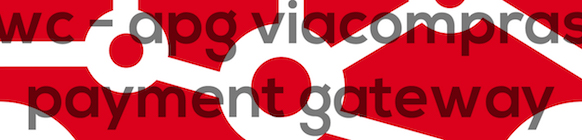
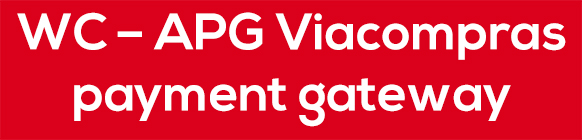
Versión 0.1.2.4

diff --git a/assets/css/style.css b/assets/css/style.css
@@ -7,12 +7,12 @@ table.apg-table, .cabecera {
 	max-width: 586px;
 }
 .imagen {
-	border-left: 4px solid #7AD03A;
+	border-left: 4px solid #07628c;
 	box-shadow: 0 1px 1px 0 rgba(0, 0, 0, 0.1);
 	max-width: 100%;
 	display: block;
 }
-.imagen:hover {
+.imagen:hover, .estrellas .star-rating .star:hover, div.informacion a:hover {
 	-ms-filter: "progid:DXImageTransform.Microsoft.Alpha(Opacity=80)";
 	filter: alpha(opacity=80);
 	-moz-opacity: 0.8;
@@ -22,26 +22,27 @@ table.apg-table, .cabecera {
 .estrellas div {
 	display: inline!important;
 }
-.estrellas div:hover {
-	color: #2ea2cc;
-}
 .estrellas .star-rating .star {
 	font-size: 18px;
 }
-div.informacion .genericon, div.informacion .estrellas .star-rating .star, div.informacion .artprojectgroup {
+div.informacion .estrellas .star-rating .star {
+	color: #fff;
+}
+.genericon, div.informacion .estrellas .star-rating .star, div.informacion .artprojectgroup {
 	width: 15px;
 	height: 15px;
 	font-size: 15px;
 }
 div.informacion {
-	background-color: #FFFFFF;
+	background-color: rgba(7,98,140,0.8);
 	float: right;
 	padding: 10px;
 	width: 15%;
 	max-width: 220px;
 	text-align: center;
-	border-left: 4px solid #7AD03A;
+	border-left: 4px solid #d9001d;
 	box-shadow: 0 1px 1px 0 rgba(0, 0, 0, 0.1);
+	color: #fff;
 }
 div.informacion div.fila {
 	padding: 10px 10px 0px;
@@ -49,7 +50,7 @@ div.informacion div.fila {
 	max-width: 190px;
 }
 div.informacion div.fila, div.informacion div.columna:nth-child(2n) {
-	border-top: 1px solid #7AD03A;
+	border-top: 1px solid #fff;
 }
 div.informacion div.fila:first-child {
 	border: none;
@@ -64,6 +65,7 @@ div.informacion div.fila.final {
 }
 div.informacion a {
 	text-decoration: none;
+	color: #fff;
 }
 table.apg-table select, table.apg-table textarea {
 	width: 100% !important;

diff --git a/apg-viacompras.php b/apg-viacompras.php
@@ -1,13 +1,15 @@
 <?php
 /*
 Plugin Name: WC - APG Viacompras payment gateway
-Version: 0.1.2.3
+Version: 0.1.2.4
 Plugin URI: https://wordpress.org/plugins/wc-apg-viacompras-payment-gateway/
 Description: Add Viacompras payment gateway to WooCommerce.
 Author URI: https://artprojectgroup.es/
 Author: Art Project Group
 Requires at least: 3.8
-Tested up to: 4.8
+Tested up to: 4.9.1
+WC requires at least: 2.1
+WC tested up to: 3.3
 
 Text Domain: wc-apg-viacompras-payment-gateway
 Domain Path: /languages
@@ -30,7 +32,7 @@ $apg_viacompras = array(
 	'plugin' 		=> 'WC - APG Viacompras payment gateway', 
 	'plugin_uri' 	=> 'wc-apg-viacompras-payment-gateway', 
 	'donacion' 		=> 'https://artprojectgroup.es/tienda/donacion',
-	'soporte' 		=> 'https://wcprojectgroup.es/tienda/ticket-de-soporte',
+	'soporte' 		=> 'https://artprojectgroup.es/tienda/ticket-de-soporte',
 	'plugin_url' 	=> 'https://artprojectgroup.es/plugins-para-wordpress/plugins-para-woocommerce/wc-apg-viacompras-payment-gateway', 
 	'ajustes' 		=> 'admin.php?page=wc-settings&tab=checkout&section=viacompras', 
 	'puntuacion' 	=> 'https://wordpress.org/support/view/plugin-reviews/wc-apg-viacompras-payment-gateway'

diff --git a/readme.md b/readme.md
@@ -7,13 +7,13 @@ Tags: woocommerce, commerce, e-commerce, commerce, shop, virtual shop, bcp, viac
 
 Requires at least: 3.8
 
-Tested up to: 4.8
+Tested up to: 4.9.1
 
-Stable tag: 0.1.2.3
+Stable tag: 0.1.2.4
 
 WC requires at least: 2.4
 
-WC tested up to: 3.1
+WC tested up to: 3.3
 
 License: GPLv3
 
@@ -34,7 +34,7 @@ Añade a WooCommerce la pasarela de pago Viacompras.
 * English ([**Art Project Group**](https://artprojectgroup.es/)).
 
 ### Soporte técnico
-**Art Project Group** te ofrece [**Soporte técnico**](https://wcprojectgroup.es/tienda/ticket-de-soporte) para configurar o instalar ***WC - APG Viacompras payment gateway***.
+**Art Project Group** te ofrece [**Soporte técnico**](https://artp rojectgroup.es/tienda/ticket-de-soporte) para configurar o instalar ***WC - APG Viacompras payment gateway***.
 
 ### Origen
 **WC - APG Viacompras payment gateway** ha sido programado a partir del plugin [*WooCommerce Sermepa payment gateway*](https://wordpress.org/plugins/woocommerce-sermepa-payment-gateway/) de [jesusangel](https://profiles.wordpress.org/jesusangel/).
@@ -72,11 +72,16 @@ La configuración del plugin es un muy simple, tan sólo debes indicar el nombre
 Recuerda que también puedes personalizar el título y la descripción según las necesidades de tu tienda online.
 
 ### Soporte técnico
-Si necesitas ayuda para configurar o instalar **WC - APG Viacompras payment gateway**, **Art Project Group** te ofrece su servicio de [**Soporte técnico**](https://wcprojectgroup.es/tienda/ticket-de-soporte). 
+Si necesitas ayuda para configurar o instalar **WC - APG Viacompras payment gateway**, **Art Project Group** te ofrece su servicio de [**Soporte técnico**](https://artp rojectgroup.es/tienda/ticket-de-soporte). 
 
 *En ningún caso **Art Project Group** proporciona ningún tipo de soporte técnico gratuito.*
 
 ## Changelog
+### 0.1.2.4
+* Actualización de cabecera.
+* Actualización de hoja de estilo.
+* Actualización de captura de pantalla.
+
 ### 0.1.2.3
 * Arreglo de localización.
 
@@ -100,7 +105,7 @@ Si necesitas ayuda para configurar o instalar **WC - APG Viacompras payment gate
 * *Español*: por [**Art Project Group**](https://artprojectgroup.es/).
 
 ## Soporte técnico
-Dado que **WC - APG Viacompras payment gateway** es totalmente gratuito, **Art Project Group** sólo proporciona el servicio de [**Soporte técnico**](https://wcprojectgroup.es/tienda/ticket-de-soporte) previo pago. En ningún caso **Art Project Group** proporciona ningún tipo de soporte técnico gratuito.
+Dado que **WC - APG Viacompras payment gateway** es totalmente gratuito, **Art Project Group** sólo proporciona el servicio de [**Soporte técnico**](https://artp rojectgroup.es/tienda/ticket-de-soporte) previo pago. En ningún caso **Art Project Group** proporciona ningún tipo de soporte técnico gratuito.
 
 ## Donación
 ¿Te ha gustado y te ha resultado útil **WC - APG Viacompras payment gateway** en tu sitio web? Te agradeceríamos una [pequeña donación](https://artprojectgroup.es/tienda/donacion) que nos ayudará a seguir mejorando este plugin y a crear más plugins totalmente gratuitos para toda la comunidad WordPress.
